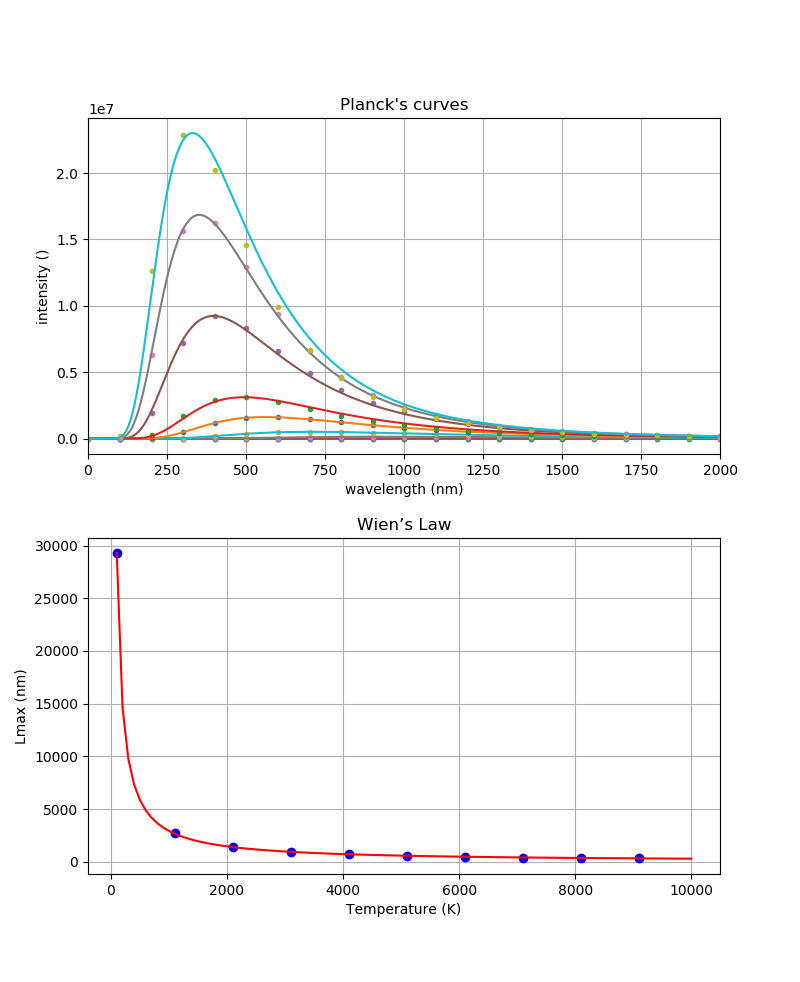
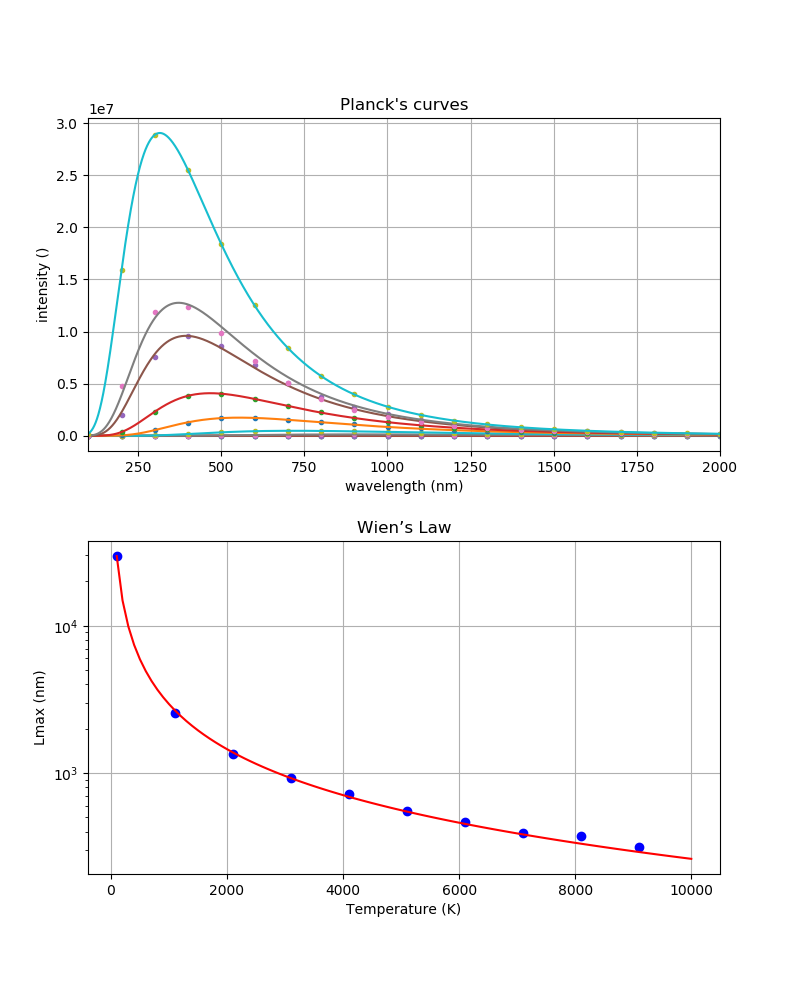
moved Wien's graph to log scale
but log scale seems to be a probelm with Planck's graph

diff --git a/planck.py b/planck.py
@@ -63,13 +63,17 @@ axs[1].plot(T2, wien(T2, *popt), "r-")
 axs[0].grid(True)
 axs[0].set_title("Planck's curves")
 axs[0].set_xlabel("wavelength (nm)")
-axs[0].set_xlim(0,2000)
+axs[0].set_xlim(100,2000)
+#axs[0].set_ylim(1e-250,1e10)
 axs[0].set_ylabel("intensity ()")
- 
+#axs[0].set_yscale('log')
+#axs[0].set_xscale('log')
+
 
 axs[1].grid(True)
 axs[1].set_title("Wien’s Law")
 axs[1].set_xlabel("Temperature (K)")
 axs[1].set_ylabel("Lmax (nm)")
+axs[1].set_yscale('log')
 
 plt.show()
